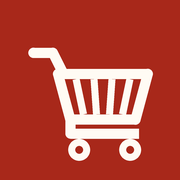
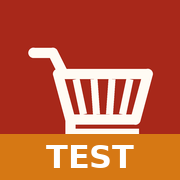
Add files via upload

Changed region(s): [[0.0, 0.7222, 1.0, 1.0]]

diff --git a/index.html b/index.html
@@ -2,12 +2,12 @@
 <html lang="fr"><head><meta charset="utf-8">
 <meta name="viewport" content="width=device-width,initial-scale=1,viewport-fit=cover">
 <meta name="apple-mobile-web-app-capable" content="yes"><meta name="mobile-web-app-capable" content="yes">
-<meta name="apple-mobile-web-app-title" content="Menu de la semaine"><meta name="apple-mobile-web-app-status-bar-style" content="default">
+<meta name="apple-mobile-web-app-title" content="Menu TEST"><meta name="apple-mobile-web-app-status-bar-style" content="default">
 <meta name="theme-color" content="#f6eee0" id="mtc">
 <link rel="manifest" href="manifest.webmanifest">
 <link rel="apple-touch-icon" href="apple-touch-icon.png">
 <link rel="icon" type="image/png" href="icon-192.png">
-<title>Menu de la semaine</title>
+<title>Menu TEST</title>
 <link rel="preconnect" href="https://fonts.googleapis.com">
 <link rel="preconnect" href="https://fonts.gstatic.com" crossorigin>
 <link rel="stylesheet" href="https://fonts.googleapis.com/css2?family=Fraunces:ital,opsz,wght@0,9..144,500..800;1,9..144,500..700&family=Figtree:wght@400;500;600;700&display=swap">
@@ -21,27 +21,36 @@
     <button class="hbtn" id="help_btn">Aide</button>
   </header>
 
-  <section id="tab-menu"></section>
+  <div id="testbar" class="testbar" hidden>Version de test : tes vraies données ne sont pas touchées.</div>
+  <section id="tab-semaine"></section>
+  <section id="tab-menu" hidden></section>
+  <section id="tab-historique" hidden></section>
   <section id="tab-epicerie" hidden></section>
+  <section id="tab-articles" hidden></section>
+  <section id="tab-prix" hidden></section>
   <section id="tab-maison" hidden></section>
   <section id="tab-recettes" hidden></section>
-  <section id="tab-reglages" hidden></section>
-  <section id="tab-articles" hidden></section>
-  <section id="tab-aide" hidden></section>
+  <section id="tab-profil" hidden></section>
 </div>
 
 <div id="cook" class="cookv" role="dialog" aria-modal="true" aria-label="Cuisiner" hidden></div>
 <nav class="tabs" role="tablist" id="tabs"><div>
-  <button role="tab" data-t="menu" aria-selected="true"><svg viewBox="0 0 24 24" aria-hidden="true"><rect x="3.5" y="5" width="17" height="15" rx="2.5"/><path d="M3.5 10h17M8 3v4M16 3v4M8 14h3M8 17h6"/></svg>Menu</button>
+  <button role="tab" data-t="semaine" aria-selected="true"><svg viewBox="0 0 24 24" aria-hidden="true"><path d="M4 11.5 12 5l8 6.5V19a1.5 1.5 0 0 1-1.5 1.5H5.5A1.5 1.5 0 0 1 4 19z"/><path d="M9 14.5l2 2 4-4"/></svg>Ma semaine</button>
+  <button role="tab" data-t="menu" aria-selected="false"><svg viewBox="0 0 24 24" aria-hidden="true"><rect x="3.5" y="5" width="17" height="15" rx="2.5"/><path d="M3.5 10h17M8 3v4M16 3v4M8 14h3M8 17h6"/></svg>Menu</button>
   <button role="tab" data-t="epicerie" aria-selected="false"><svg viewBox="0 0 24 24" aria-hidden="true"><path d="M3 4h2.2l2.3 10.4a1.2 1.2 0 0 0 1.2.9h8.6a1.2 1.2 0 0 0 1.2-.9L20.5 7.5H6"/><circle cx="9.5" cy="19.3" r="1.3"/><circle cx="17" cy="19.3" r="1.3"/></svg>Épicerie<span class="badge" id="bgl" hidden></span></button>
-  <button role="tab" data-t="articles" aria-selected="false"><svg viewBox="0 0 24 24" aria-hidden="true"><path d="M3.5 11.6V5A1.5 1.5 0 0 1 5 3.5h6.6a1.5 1.5 0 0 1 1.06.44l7.4 7.4a1.5 1.5 0 0 1 0 2.12l-6.6 6.6a1.5 1.5 0 0 1-2.12 0l-7.4-7.4a1.5 1.5 0 0 1-.44-1.06z"/><circle cx="8.2" cy="8.2" r="1.4"/></svg>Articles</button>
-  <button role="tab" data-t="maison" aria-selected="false"><svg viewBox="0 0 24 24" aria-hidden="true"><path d="M4 11.5 12 5l8 6.5V19a1.5 1.5 0 0 1-1.5 1.5H5.5A1.5 1.5 0 0 1 4 19z"/><path d="M10 20.5v-5h4v5"/></svg>Maison</button>
   <button role="tab" data-t="recettes" aria-selected="false"><svg viewBox="0 0 24 24" aria-hidden="true"><path d="M5 4.5h11.5A2.5 2.5 0 0 1 19 7v13H7.5A2.5 2.5 0 0 1 5 17.5z"/><path d="M5 17.5A2.5 2.5 0 0 1 7.5 15H19M9 8.5h6M9 11.5h4"/></svg>Recettes</button>
-  <button role="tab" data-t="reglages" aria-selected="false"><svg viewBox="0 0 24 24" aria-hidden="true"><path d="M4 7h9M17 7h3M4 17h3M11 17h9M4 12h5M13 12h7"/><circle cx="15" cy="7" r="2"/><circle cx="9" cy="17" r="2"/><circle cx="11" cy="12" r="2"/></svg>Réglages</button>
+  <button role="tab" data-t="profil" aria-selected="false"><svg viewBox="0 0 24 24" aria-hidden="true"><circle cx="12" cy="8.5" r="3.5"/><path d="M5 19.5c1.2-3.3 4-5 7-5s5.8 1.7 7 5"/></svg>Profil</button>
 </div></nav>
 
 <script src="version.js"></script>
 <script src="recettes.js"></script>
 <script src="prix-maxi.js"></script>
-<script src="app.js"></script>
+<script src="js/base.js"></script>
+<script src="js/plats.js"></script>
+<script src="js/semaine.js"></script>
+<script src="js/liste-prix.js"></script>
+<script src="js/generation.js"></script>
+<script src="js/ecrans.js"></script>
+<script src="js/profil.js"></script>
+<script src="js/app.js"></script>
 </body></html>

diff --git a/style.css b/style.css
@@ -216,7 +216,7 @@ details.dish[open] .dname{color:var(--accent)}
 .acts{display:flex;flex-wrap:wrap;gap:8px;align-items:flex-start}
 .btn{min-height:44px;padding:0 16px;border-radius:12px;border:0;background:var(--chip);font-weight:600}
 .btn.p{background:var(--accent);color:var(--accent-ink)}
-.btn.s{min-height:38px;padding:0 13px;font-size:.88rem;border-radius:11px}
+.btn.s{min-height:40px;padding:0 13px;font-size:.88rem;border-radius:11px}
 .btn.d{color:var(--danger);background:var(--danger-soft)}
 .btn.wide{width:100%}
 .btn:disabled{opacity:.45}
@@ -335,3 +335,27 @@ button.chip.on{background:var(--accent);color:var(--accent-ink)}
 .vbox,.rbox{display:flex;flex-direction:column;gap:12px}
 .note[hidden]{display:none}
 @media (max-width:380px){.grid4{grid-template-columns:1.6fr 1fr 1fr auto}.tabs button{font-size:.62rem}.dbody{padding-left:0}}
+
+/* ---------- 2.0 : version de test, sous-menus, semaine, commande ---------- */
+.testbar{background:var(--warn-soft);color:var(--ink);border:1px dashed var(--warn);border-radius:12px;padding:8px 12px;font-size:.82rem;font-weight:600;margin:-6px 0 14px;text-align:center}
+.subnav{margin:0 -16px 14px;position:sticky;top:0;z-index:4;background:var(--bg);padding:8px 16px 6px;flex-wrap:nowrap;overflow-x:auto;-webkit-overflow-scrolling:touch;scrollbar-width:none}
+.subnav::-webkit-scrollbar{display:none}
+.subnav button{flex:none}
+.subnav button{min-height:40px}
+.cal{display:flex;flex-direction:column;gap:6px;margin:8px 0 12px}
+.calday{display:grid;grid-template-columns:96px 1fr auto;gap:10px;align-items:center;padding:8px 10px;border-radius:12px;background:var(--soft)}
+.calday.today{outline:2px solid var(--accent)}
+.calday .cd{font-size:.8rem;font-weight:700;color:var(--mute)}
+.calday .cm{display:flex;flex-direction:column;min-width:0}
+.calday .cm b{font-size:.92rem;line-height:1.25}
+.calday .cm small{color:var(--mute);font-size:.76rem}
+.why{font-size:.82rem;color:var(--mute);margin:6px 0}
+.why b{color:var(--ink);font-weight:600}
+.shopl{display:inline-flex;align-items:center;margin:2px 0;padding:0 10px 0 0;font-size:.86rem;font-weight:600;color:var(--accent);min-height:44px}
+.ibw.doute{background:var(--warn-soft);border-radius:10px;padding:6px}
+.ibw .dt{display:block;font-size:.76rem;font-weight:600;color:var(--ink);margin-bottom:4px}
+.alts{margin:8px 0}
+body.test header h1 em::after{content:" TEST";font-style:normal;font-size:.5em;color:var(--warn);vertical-align:super}
+@media (max-width:380px){.calday{grid-template-columns:78px 1fr auto}}
+
+.calday.prev{background:var(--chip);opacity:.85}

diff --git a/sw.js b/sw.js
@@ -1,7 +1,7 @@
 /* Service worker : réseau d'abord (toujours la dernière version en ligne), cache en secours (hors ligne). */
 importScripts('version.js');
-const C = 'menu-semaine-' + self.APP_VERSION;
-const FILES = ['./', 'index.html', 'style.css', 'version.js', 'recettes.js', 'prix-maxi.js', 'app.js', 'manifest.webmanifest', 'icon-192.png', 'icon-512.png', 'apple-touch-icon.png'];
+const PRE = self.APP_TEST ? 'menu-test-' : 'menu-semaine-', C = PRE + self.APP_VERSION;
+const FILES = ['./', 'index.html', 'style.css', 'version.js', 'recettes.js', 'prix-maxi.js', 'js/base.js', 'js/plats.js', 'js/semaine.js', 'js/liste-prix.js', 'js/generation.js', 'js/ecrans.js', 'js/profil.js', 'js/app.js', 'manifest.webmanifest', 'icon-192.png', 'icon-512.png', 'apple-touch-icon.png', 'qr-menu.png'];
 
 self.addEventListener('install', e => {
   /* cache:'reload' : on contourne le cache HTTP pour ne pas mélanger d'anciens fichiers avec les nouveaux */
@@ -9,7 +9,7 @@ self.addEventListener('install', e => {
 });
 
 self.addEventListener('activate', e => e.waitUntil(
-  caches.keys().then(ks => Promise.all(ks.filter(k => k.startsWith('menu-semaine-') && k !== C).map(k => caches.delete(k)))).then(() => self.clients.claim())
+  caches.keys().then(ks => Promise.all(ks.filter(k => k.startsWith(PRE) && k !== C).map(k => caches.delete(k)))).then(() => self.clients.claim())
 ));
 
 self.addEventListener('fetch', e => {

diff --git a/version.js b/version.js
@@ -1,3 +1,8 @@
 /* Version unique de l'application : la changer à chaque mise en ligne.
    Elle sert à la fois à l'app (copie de sécurité avant mise à jour) et au service worker (cache hors ligne). */
-self.APP_VERSION = '2026-10-15d';
+self.APP_VERSION = '2.0.0-test1';
+/* Canal : une copie de l'application placée dans un dossier « test » (…/Menu/test/) est la version d'essai.
+   Elle garde ses données à part (autres clés de stockage, autre cache) : elle ne touche jamais aux vraies données. */
+self.APP_TEST = /\/test\//.test(self.location.pathname);
+/* Adresse courriel pour « Signaler un problème ou une idée » (vide = bouton caché). */
+self.APP_CONTACT = '';
